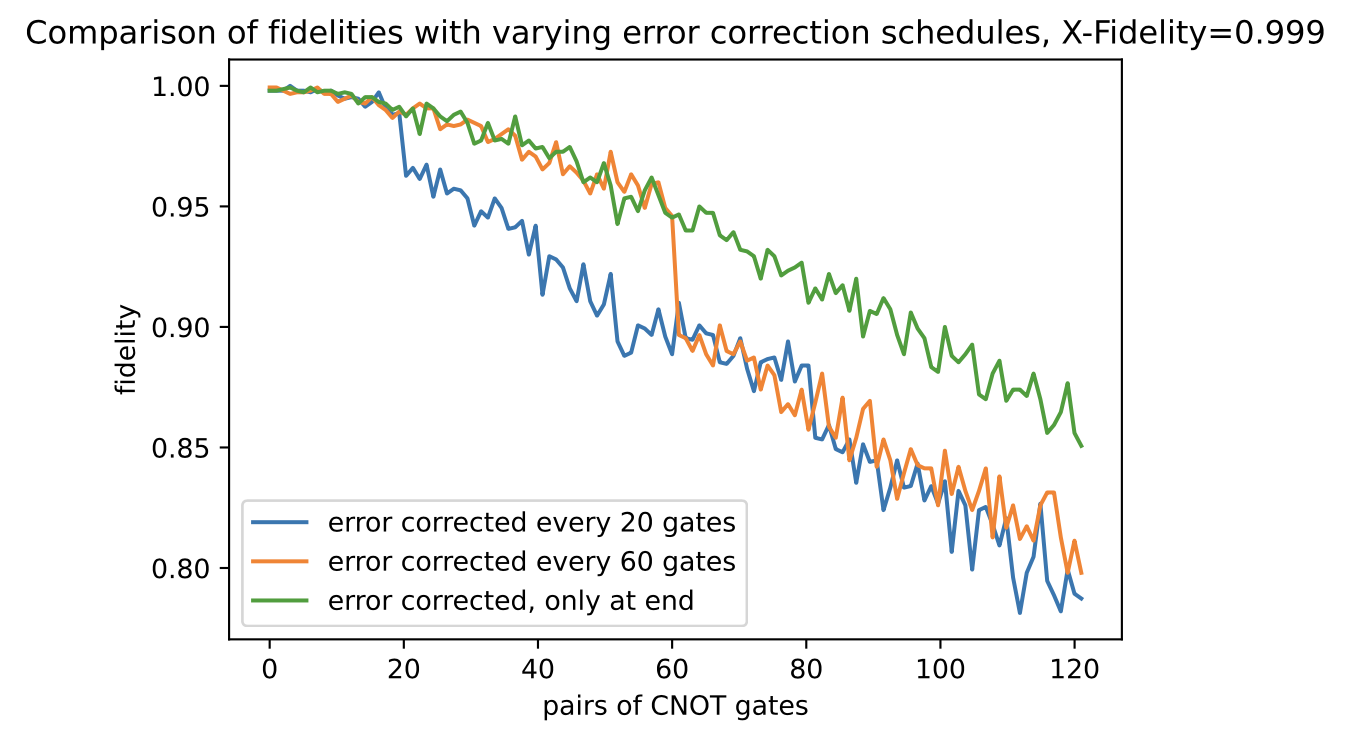
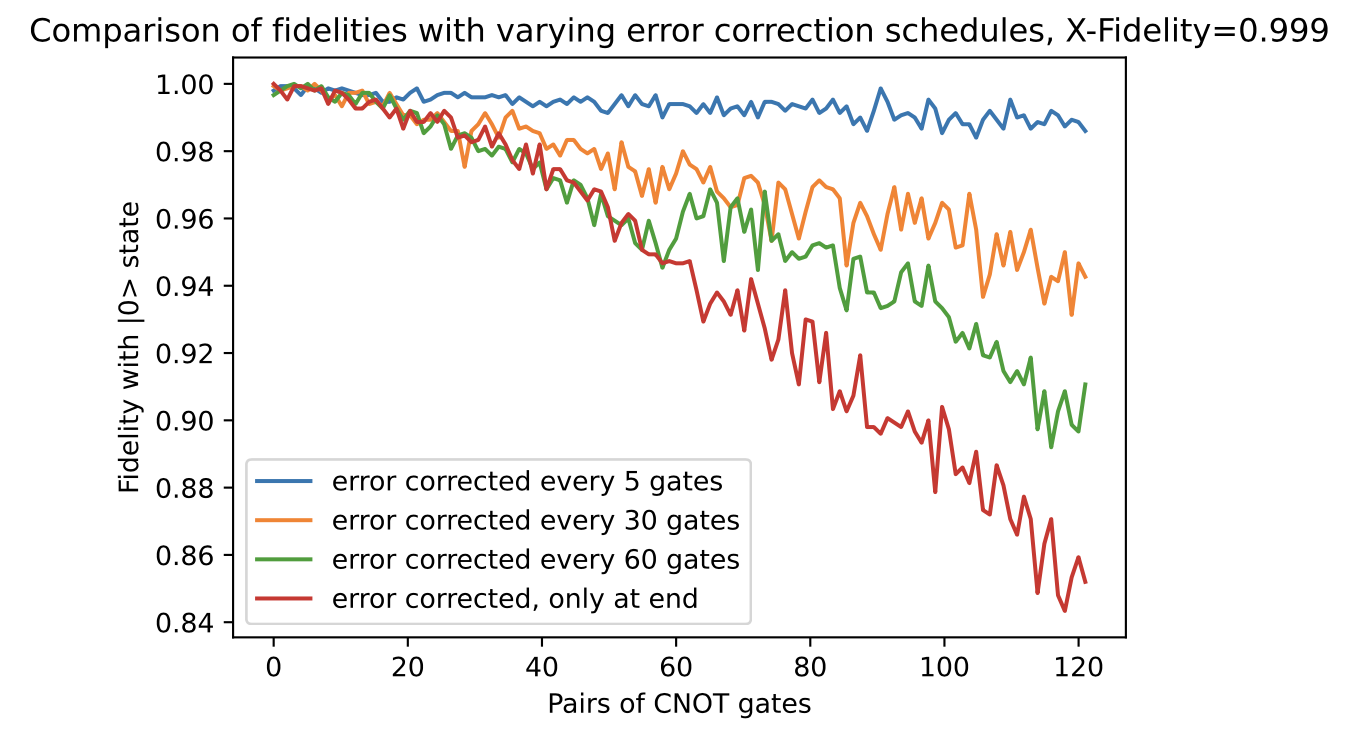
updated q7 slides and data

Changed region(s): [[0.0, 0.0, 0.9897, 0.9661]]

diff --git a/presentation.tex b/presentation.tex
@@ -611,6 +611,13 @@
   \includegraphics[width=\textwidth]{7qb_end}
 \end{frame}
 
+\begin{frame}{7-qubit code: Simulation vs running on quantum computers?}
+    - The states should be clearly defined, but noise dominates the system
+    \begin{center}
+        \includegraphics[width=8cm]{7-melbourne-fidelity}
+    \end{center}
+\end{frame}
+
 \begin{frame}{7-qubit code: Fidelity of X Gate under \textcolor{red!20}{Depolarization}}
   \begin{tikzpicture}
     \node[block] (init) at (0, 0) {Encode $\ket{0_L}$};
@@ -653,15 +660,16 @@
   \item 7-qubit code reduces single gate error rate for depolarization rates lower than detectable by our qiskit simulations ($p\lessapprox 10^{-4}$)
   \end{itemize}
 \end{frame}
-  
-\begin{frame}{7-qubit code: Simulation vs running on quantum computers?}
-    - The states should be clearly defined, but noise dominates the system
-    \begin{center}
-        \includegraphics[width=8cm]{7-melbourne-fidelity}
-    \end{center}
+
+\begin{frame}{7-qubit code: Extending to Multiple Gates}
+    \begin{itemize}
+        \item <1-> Here, we assumed that the $\ket{0}_L$ state was perfectly encoded, before performing up to 200 pairs of X gates on the seven qubits simultaneously
+        \item <2-> In the end, we decoded and we measured the value of the first of the seven qubits to measure its fidelity with the predicted state -> we should end up with $\ket{0}^{\otimes 7}$
+        \item <3-> We compared the fidelity of the error correcting algorithm to a single qubit that goes through up to 200 X rotations
+    \end{itemize}
 \end{frame}
 
-\begin{frame}{7-qubit code: Useful with lower error probability}
+\begin{frame}{7-qubit code: Useful with lower error probabilities}
   \begin{tikzpicture}
     \node[block] (init) at (0, 0) {Encode $\ket{\overline{0}}$};
     \node[redblock] (xgate) at (1.75, 0) {X};
@@ -669,7 +677,23 @@
     \node[block] (cp) at (6, 0) {Correct phase};
     \node[block] (end) at (9, 0) {Decode, measure};
   \end{tikzpicture}
-  \includegraphics[width=\textwidth]{7-steane-comparison}
+  \begin{center}
+    \includegraphics[width=9cm]{7-steane-comparison}
+  \end{center}
+\end{frame}
+
+\begin{frame}{7-qubit code: Adding Error Correction at different Timesteps}
+  - Using a noise model with (p=0.001) noise in the x and z-direction per gate 
+  \begin{tikzpicture}
+    \node[block] (init) at (0, 0) {Encode $\ket{\overline{0}}$};
+    \node[redblock] (xgate) at (1.75, 0) {X};
+    \node[redblock] (cf) at (3.5, 0) {Correct flip};
+    \node[block] (cp) at (6, 0) {Correct phase};
+    \node[block] (end) at (9, 0) {Decode, measure};
+  \end{tikzpicture}
+  \begin{center}
+    \includegraphics[width=9cm]{7-schedule-comparison.png}
+  \end{center}
 \end{frame}
 
 \begin{frame}{7-qubit code: Adding Error Correction at different Timesteps}
@@ -680,7 +704,18 @@
     \node[block] (cp) at (6, 0) {Correct phase};
     \node[block] (end) at (9, 0) {Decode, measure};
   \end{tikzpicture}
-  \includegraphics[width=\textwidth]{7-schedule-comparison}
+  
+  - Using a noise model with (p=0.01) noise in the x and z-direction per gate 
+  \begin{center}
+    \includegraphics[width=9cm]{7-schedule-comparison-2.png}
+  \end{center}
+\end{frame}
+
+\begin{frame}{7-qubit code: Generalizing to Error Correction}
+    \begin{itemize}
+        \item Ultimately, error correction is useful, but must be intelligently deployed - here, error-correction is heavily sensitive to the noise in each gate
+        \item It may be useful to characterize the thresholds before using error-correcting codes or consider using error-correcting codes continuously throughout a computation
+    \end{itemize}
 \end{frame}
 
 \end{document}
